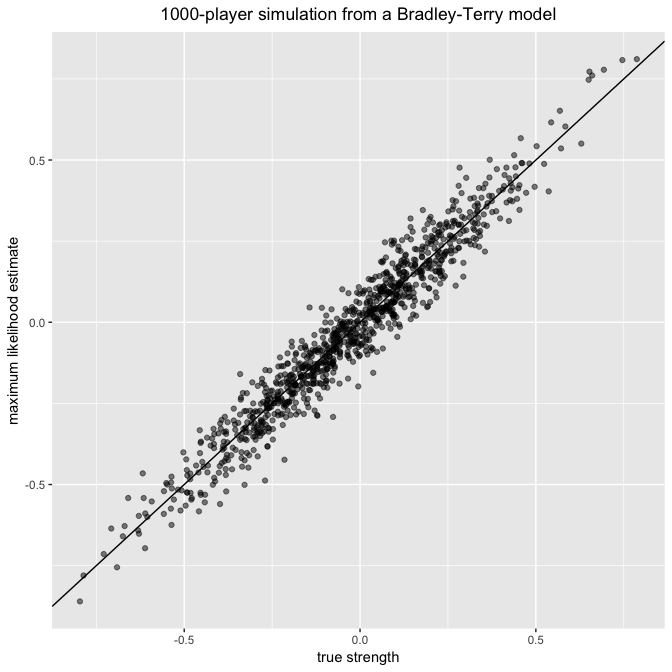
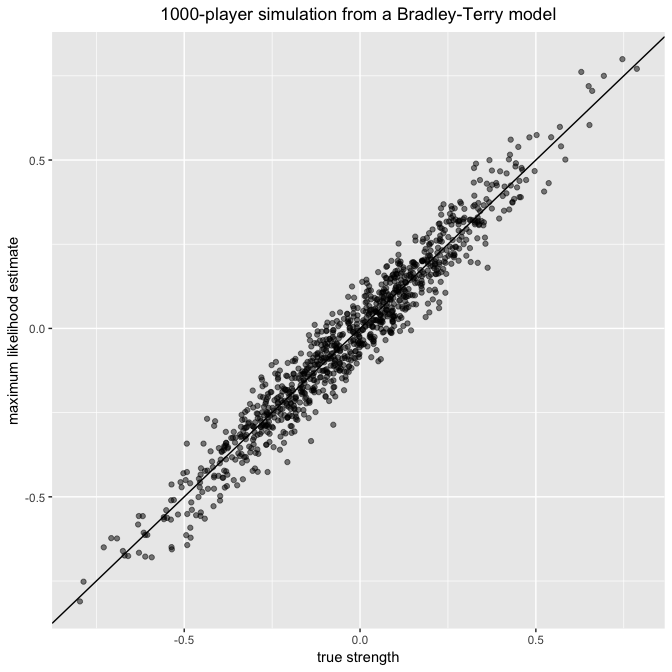
README tweaks

Changed region(s): [[0.0938, 0.0625, 1.0, 0.9062], [0.0312, 0.7188, 0.0938, 0.75], [0.0312, 0.4688, 0.0938, 0.5]]

diff --git a/README.md b/README.md
@@ -308,17 +308,6 @@ As a bigger example, let's simulate a single instance of a fairly sparse tournam
 ``` r
 library(Matrix)
 library(dplyr)
-#> 
-#> Attaching package: 'dplyr'
-#> The following objects are masked from 'package:igraph':
-#> 
-#>     %>%, as_data_frame, groups, union
-#> The following objects are masked from 'package:stats':
-#> 
-#>     filter, lag
-#> The following objects are masked from 'package:base':
-#> 
-#>     intersect, setdiff, setequal, union
 library(ggplot2)
 set.seed(1989)
 n_items <- 1000
@@ -340,7 +329,7 @@ pi_vec <- exp(rnorm(n_items) / 4)
 pi_vec <- pi_vec / mean(pi_vec)
 
 ## Now generate contest outcome counts from the Bradley-Terry model:
-big_matrix <- simulate_BT(pi_vec, Nmatrix, nsim = 1)[[1]]
+big_matrix <- simulate_BT(pi_vec, Nmatrix, nsim = 1, seed = 1)[[1]]
 big_btdata <- btdata(big_matrix)
 
 ## Fit the Bradley-Terry model to the simulated data:
